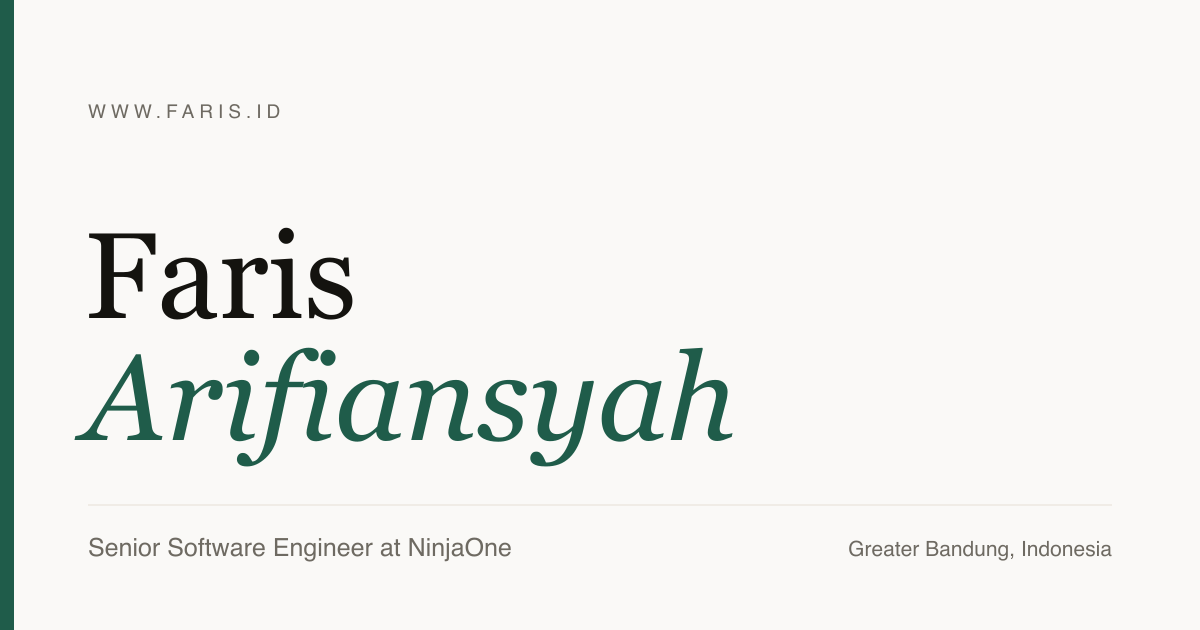
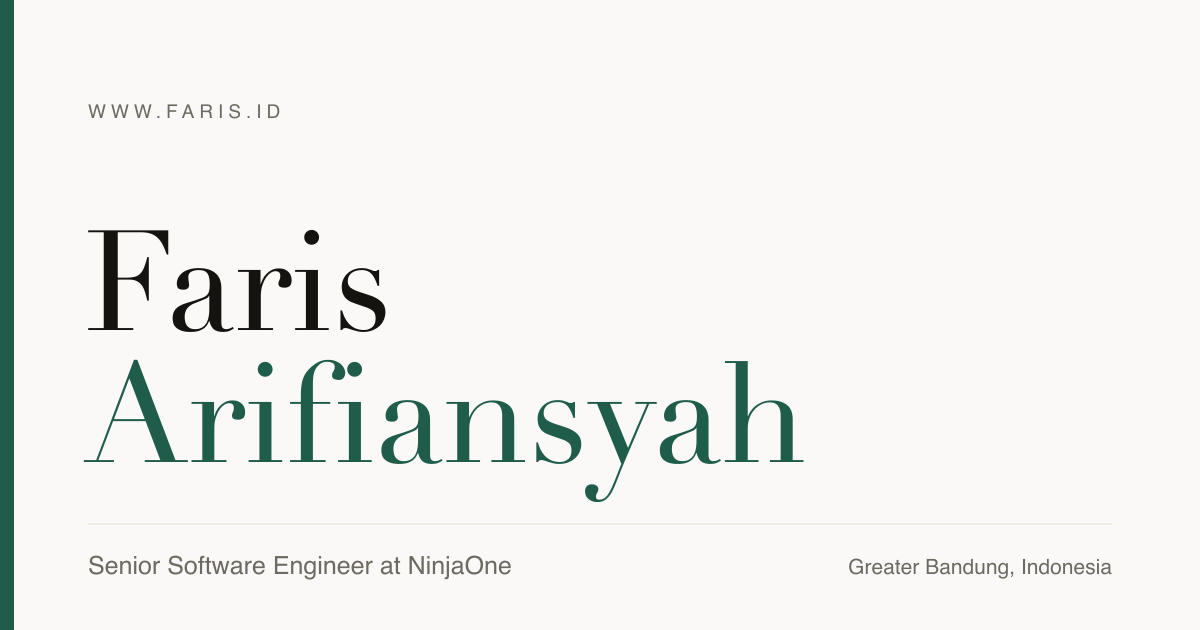
Switch display type to Cormorant Garamond

Changed region(s): [[0.0617, 0.3619, 0.6783, 0.8143], [0.0617, 0.8444, 0.4317, 0.9349], [0.7092, 0.8444, 0.925, 0.9349]]

diff --git a/src/styles/global.css b/src/styles/global.css
@@ -12,7 +12,7 @@
   --color-accent-soft: var(--accent-soft);
 
   --font-sans: "Inter Variable", ui-sans-serif, system-ui, -apple-system, "Segoe UI", sans-serif;
-  --font-serif: "Instrument Serif", "Iowan Old Style", Georgia, serif;
+  --font-serif: "Cormorant Garamond Variable", "Cormorant Garamond", "Iowan Old Style", Georgia, serif;
 }
 
 :root {

diff --git a/README.md b/README.md
@@ -11,20 +11,33 @@ runtime cost: everything is rendered at build time and served from GitHub's CDN.
 - [React](https://react.dev) — small interactive islands (theme toggle, copy email)
 - [Tailwind CSS](https://tailwindcss.com) 4 — styling and design tokens
 - TypeScript
-- Fonts: Instrument Serif + Inter Variable, self-hosted via Fontsource
+- Fonts: Cormorant Garamond + Inter Variable, self-hosted via Fontsource
 - Icons: Simple Icons (inline SVG)
 
 ## Development
 
-Requires Node.js **22.23.4 or newer** (Node 24 recommended).
+Requires Node.js **22.23.4 or newer** (Node 24 recommended). The repository ships an
+`.nvmrc`, so with nvm installed the setup is:
 
 ```bash
-npm install
-npm run dev       # http://localhost:4321
-npm run build     # generates dist/
-npm run preview   # serve the production build locally
-npm run og        # regenerate public/og.png
+nvm install        # installs the Node version from .nvmrc (only once)
+nvm use            # switch to it in every new terminal
+npm install        # installs dependencies (only once)
+npm run dev        # http://localhost:4321 — hot reload
 ```
+
+Then edit files and refresh the browser. `npm run dev` picks up changes automatically
+(styles, components, and `src/data/*.ts` content).
+
+Before pushing, verify the production build:
+
+```bash
+npm run build      # generates dist/
+npm run preview    # serves dist/ at http://localhost:4321
+npm run og         # regenerate public/og.png
+```
+
+Stop the dev or preview server with `Ctrl+C`.
 
 ## Content
 
@@ -49,10 +62,15 @@ still need to be filled in manually:
 ## Design
 
 - Minimal editorial layout: paper/ink palette with a deep green accent
+- Display type: Cormorant Garamond; body: Inter Variable
 - Light and dark themes (follows the system, remembers the user's choice)
 - Responsive from 360px up
 - Motion respects `prefers-reduced-motion`
 - SEO: canonical URL, Open Graph/Twitter cards, JSON-LD Person schema, sitemap, robots.txt
+
+The Open Graph image (`public/og.png`) is committed so CI does not depend on local fonts.
+Regenerate it with `npm run og`; on macOS the script renders the display type with Didot
+(librsvg cannot load woff2, so it falls back to the closest serif available).
 
 ## Deployment
 
